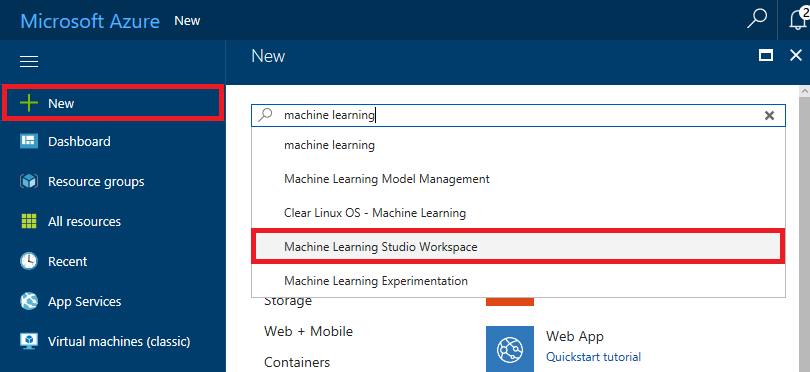
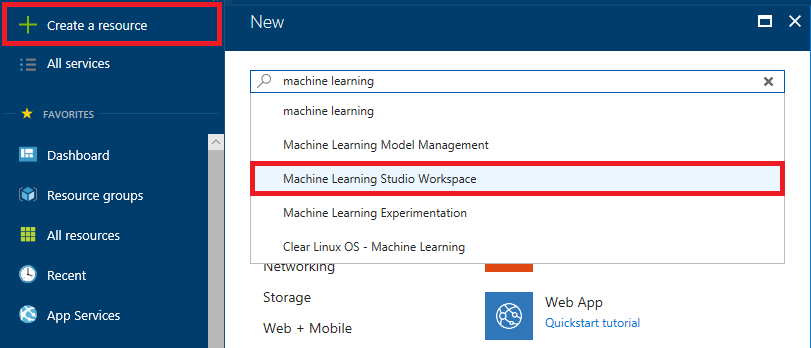
Updated ML Challenge

diff --git a/Event-In-Box/Machine Learning Challenge/Machine Learning Challenge.md b/Event-In-Box/Machine Learning Challenge/Machine Learning Challenge.md
@@ -43,7 +43,7 @@ The first step in employing Azure Machine Learning Studio is to create a machine
 
 1. Open the [Azure Portal](https://portal.azure.com) in your browser. If asked to log in, do so using your Microsoft account.
 
-1. Click **+ New**. Then type "machine learning" (without quotation marks) into the search box and select **Machine Learning Studio Workspace** from the search results.
+1. Click **+ Create resource**. Then type "machine learning" (without quotation marks) into the search box and select **Machine Learning Studio Workspace** from the search results.
 
     ![Creating a workspace](Images/new-ml-workspace-1.png)
 
